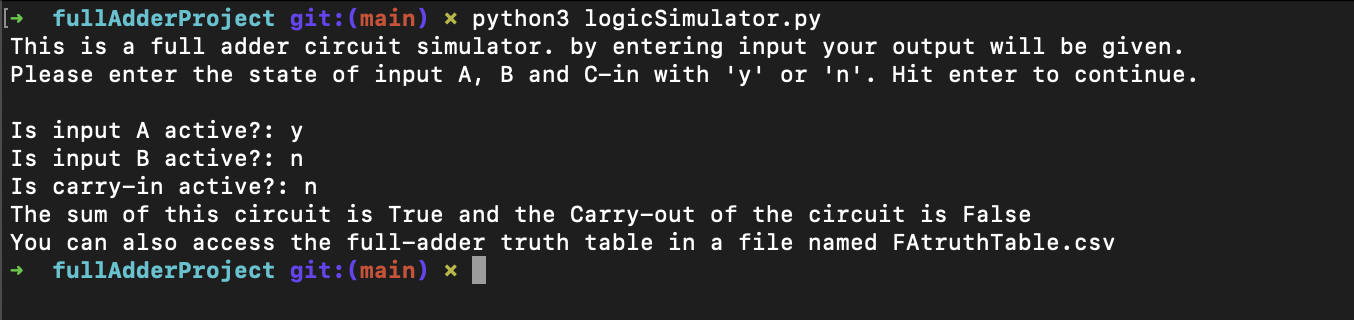
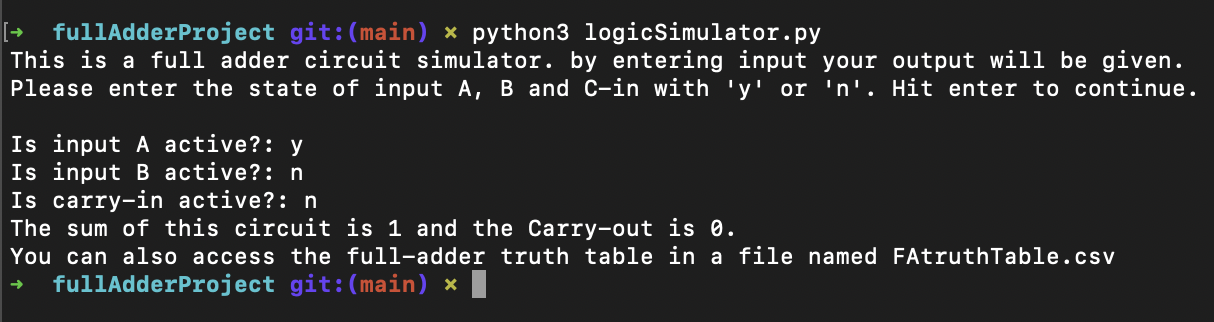
fix: changed output to 1/0, updated README and screenshot

Changed region(s): [[0.0, 0.375, 0.9143, 0.9375], [0.0, 0.0, 0.9753, 0.3125]]

diff --git a/logicSimulator.py b/logicSimulator.py
@@ -30,7 +30,7 @@ class FullAdder: #کلاس محاسبه فول ادر
         return (self.A and self.B) or (self.C and xor(self.A, self.B))
 
 faWanted = FullAdder(A, B ,C)
-print ('The sum of this circuit is %s and the Carry-out of the circuit is %s' % (faWanted.sum(), faWanted.carry()) )
+print(f'The sum of this circuit is {int(faWanted.sum())} and the Carry-out is {int(faWanted.carry())}.')
 print ('You can also access the full-adder truth table in a file named FAtruthTable.csv')
 
 ttInput = 0b000 #برای وارد کردن ورودی ها در جدول درستی
